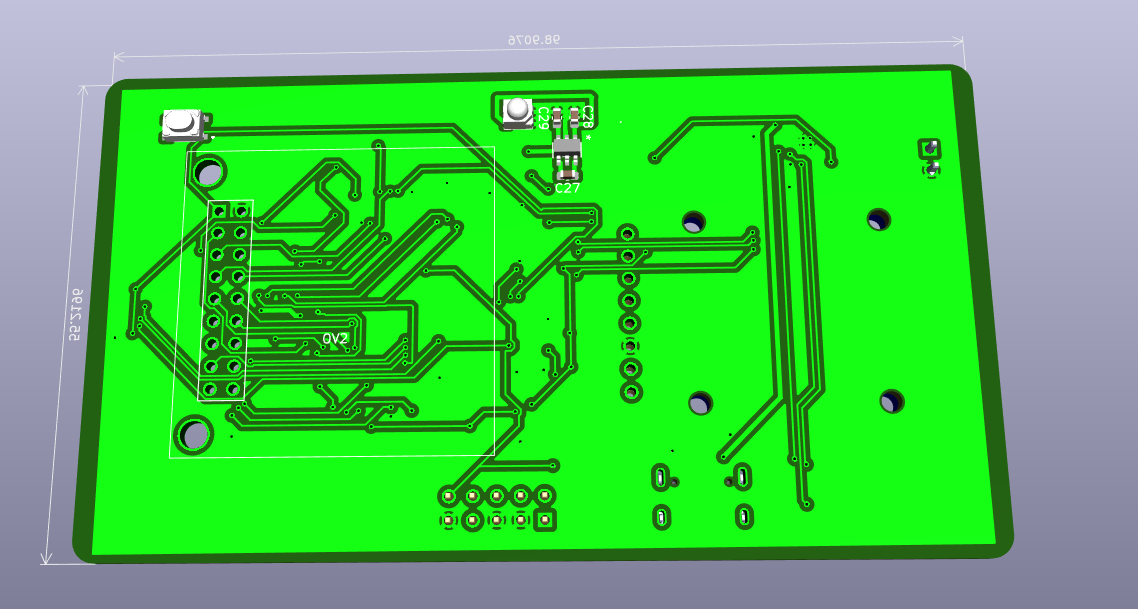
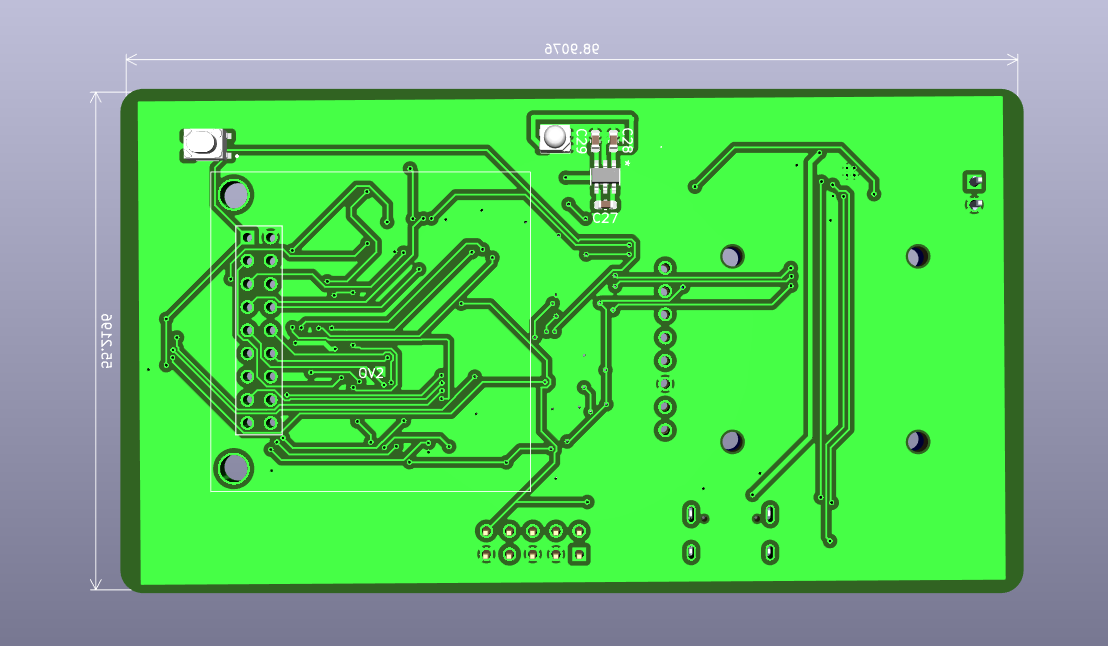
updated readme

diff --git a/camCAD/README.md b/camCAD/README.md
@@ -29,11 +29,13 @@ This schematic contains the buttons that will aid the user in communicating with
 ### PCB Layout (Two Layer)
 I was recommended to use four layers to separate the ground and VCC Planes better, but this is what I got routing with a two-layer PCB, with the back CU layer housing a ground fill zone. 
 
-Front Layout
+#### Front Layout
+All dimensions are in mm.
 ![Front Layout CU only](../imgs/twoLayer_FCu.png)
 ![Front 3D Model](../imgs/twoLayer_3DF.png)
 
 
-Back Layout
+#### Back Layout
+All dimensions are in mm.
 ![Back Layout Cu](../imgs/twoLayer_BCu.png)
 ![Back 3D Model](../imgs/twoLayer_3DB.png)
